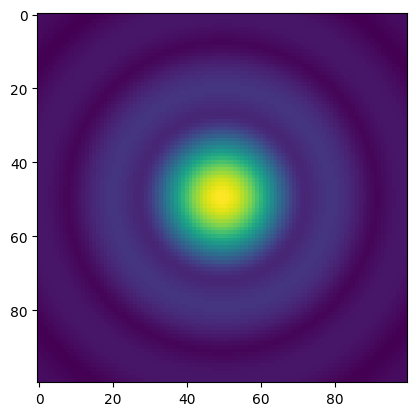
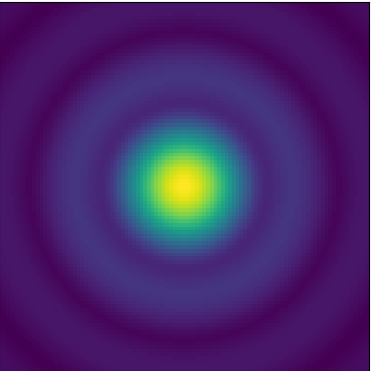
Before clean- Includes comments

diff --git a/Full_sim/03_30_26.py b/Full_sim/03_30_26.py
@@ -2,26 +2,26 @@ import matplotlib.pyplot as plt
 import numpy as np
 import math
 
-N = 400 #ideally(400)
+N = 100 #ideally(400)
 radius = .25 #500 mm across!! (.25)
 dx = (2 * radius)/N
 edge_taper = 0.01 #gaussian
 theta = math.pi / 4 #45 degrees (but in rad)
 lamda = 3e-3 #3mm
-frame_size = [50,50]
+#frame_size = [50,50]
 
 #tilted mirror matrices
 # phase_gradient = np.zeros((3,1))
 # degree_tilt = np.array([[1,0,0], [0, math.cos(theta), math.sin(theta)], [0, -math.sin(theta), math.cos(theta)]])
 # coord = np.array([[x], [y], [z]])
-# #QUESTION
-mirror_coord = np.array([1.5,1.5,4]) #m (6,4,4)
 
+mirror_coord = np.array([2.7,1.8,4]) #m (6,4,4)
+z1 = 4
 # phase_gradient = (degree_tilt * coord) + mirror_coord
 phase_gradient = 1
 
 def ap_grid(N, dx,radius, edge_taper, phase_gradient):
-    coords = (np.arange(N) - N/2) * dx
+    coords = (np.arange(N) - (N/2)) * dx
     x, y = np.meshgrid(coords, coords)
     z = 0
 
@@ -54,13 +54,12 @@ def mirror(N, dx, theta, mirror_coord):
 
 
 
-
-
 def fresnel(aperture,x,y, mirror_data, lamda):
+    #angular spatial frequency (optical wave number)
     k = 2 * np.pi / lamda
     dist = float(mirror_data[2])
     
-    #from mirror
+    #from mirror (slicing for scaling)
     t_x = mirror_data[0][0, :]
     t_y = mirror_data[1][:, 0] 
     
@@ -76,21 +75,70 @@ def fresnel(aperture,x,y, mirror_data, lamda):
 
 
 
+def fraunhofer(a_grid, m_grid, lamda, dx, z1, near_grid):
+    """
+    aperture: complex 2D array
+    mirror: complex or real 2D array (same shape)
+    wavelength: meters
+    dx: pixel spacing (meters)
+    z1: propagation distance aperture -> mirror (meters)
+    """
+
+    k = 2 * np.pi / lamda
+    
+    # FX, FY = np.meshgrid(fx, fy, indexing='ij')
+
+    # # Fresnel transfer function
+    # H = np.exp(-1j * np.pi * lamda * z1 * (FX**2 + FY**2))
+
+    # # Propagate to mirror
+    # U1 = np.fft.ifft2(np.fft.fft2(aperture) * H)
+
+    # # Apply mirror
+    # U2 = U1 * m_grid
+
+    # Fraunhofer (far field)
+    U_far = np.fft.fft2(near_grid)
+#  # # Fresnel transfer function
+#     H = np.exp(-1j * np.pi * lamda * z1 * (FX**2 + FY**2))
+    center = np.fft.fftshift(U_far)
+
+    I_far = np.abs(center)**2
+
+    #freq coord
+    #rows and cols
+    N, M = a_grid.shape
+
+    # Frequency coordinates for fft 
+    fx = np.fft.fftfreq(N, d=dx)
+    fy = np.fft.fftfreq(M, d=dx)
+    #shifted
+    fx = np.fft.fftshift(fx)
+    fy = np.fft.fftshift(fy)
+
+    #Real units
+    x_far = fx * lamda * z1
+    y_far = fy * lamda * z1
+    
+    #meshy
+    
+    # final = np.fft.ifft2(U_far * H)
 
 
+    return I_far, x_far, y_far
 
-#def fraunhofer(a_grid, m_grid, lamda):
 
 
 aperture, x, y, z = ap_grid(N, dx,radius, edge_taper, phase_gradient)
 
-pad = 0
-aperture_padded = np.pad(aperture, ((pad, pad), (pad, pad)), mode='constant')
+#PADDING?
+# pad = 0
+# aperture_padded = np.pad(aperture, ((pad, pad), (pad, pad)), mode='constant')
+# N_new = aperture_padded.shape[0]
+# coords = np.linspace(-radius, radius, N)
+# x_padded, y_padded = np.meshgrid(coords, coords)
 
-N_new = aperture_padded.shape[0]
-coords = np.linspace(-radius, radius, N)
-x_padded, y_padded = np.meshgrid(coords, coords)
-
+#PRINTING THE APERTURE
 # plt.imshow(np.abs(aperture), extent = [-radius, radius, -radius, radius])
 # plt.xlabel("Diameter of Aperture (mm)")
 # plt.title("Aperture")
@@ -98,15 +146,36 @@ x_padded, y_padded = np.meshgrid(coords, coords)
 
 mirror_data, length, width, distance = mirror(N, dx, theta, mirror_coord)
 
+near = fresnel(aperture, x, y, mirror_data, lamda)
 
-near = fresnel(aperture_padded, x_padded, y_padded, mirror_data, lamda)
-plt.xlabel("Length (m)")
-plt.ylabel("Width (m)")
-plt.title(f"Mirror Projection(Fresnel) Distance {distance} (m)")
-plt.imshow(np.log10(np.abs(near)**2 + 1e-15), 
-           extent=[length.min(), length.max(), width.min(), width.max()], 
-           aspect='equal', 
-           origin='lower')
+#PRINT NEAR FIELD MIRROR PROJECTION
+# plt.xlabel("Length (m)")
+# plt.ylabel("Width (m)")
+# plt.title(f"Mirror Projection(Fresnel) Distance {distance} (m)")
+# plt.imshow(np.log10(np.abs(near)**2 + 1e-15), 
+#            extent=[length.min(), length.max(), width.min(), width.max()], 
+#            aspect='equal', 
+#            origin='lower')
+# plt.show()
+
+I_far, x_far, y_far = fraunhofer(aperture, mirror_data, lamda, dx, z1,near)
 
 
+# image boundaries!!!!!!!!!!!!!!!!!!!!!!!!!!!!!!!!!!!!!!
+x_min, x_max = x_far.min(), x_far.max()
+y_min, y_max = y_far.min(), y_far.max()
+
+#inferno?
+plt.imshow(I_far, cmap='inferno', extent=[x_min, x_max, y_min, y_max], origin='lower')
+
+# Zoom
+plt.xlim(x_min / 10, x_max / 10)
+plt.ylim(y_min / 10, y_max / 10)
+# plt.imshow(I_far, cmap='inferno')
+plt.colorbar(label='Intensity')
+plt.title('Far-field diffraction pattern')
 plt.show()
+
+
+print(I_far)
+

diff --git a/Ohio_cosmic_presentation/plot.py b/Ohio_cosmic_presentation/plot.py
@@ -1,0 +1,60 @@
+import matplotlib.pyplot as plt
+import numpy as np
+
+
+#creating the aperture space
+N = 100
+aperture = np.zeros(shape=(N,N),dtype=complex)
+
+x_pos = np.linspace(-250, 250, N) # 500 millimeter aperture
+y_pos = np.linspace(-250, 250, N)
+
+x_grid,y_grid = np.meshgrid(x_pos,y_pos)
+
+#Computes distance from origin to each grid point
+r = np.sqrt(x_grid**2 + y_grid**2)
+
+#Creates circular aperture
+aperture[r < 250] = 1.0
+
+# """for i in range(len(x_pos)):
+#     for j in range(len(y_pos)):
+#         r = np.sqrt(x_pos[i]**2 + y_pos[j]**2)
+#         if r < 250:
+#             aperture[i,j] = 1.0"""
+
+
+# plt.imshow(np.abs(aperture))
+
+
+#taking the aperture and seeing where thats projected onto the near field
+near_field = np.zeros(shape=(100,100), dtype=complex)
+x2 = np.linspace(-1000,1000,100)
+y2 = np.linspace(-1000,1000,100)
+z = 10000
+
+x_grid2,y_grid2 = np.meshgrid(x2,y2)
+
+for i in range(len(x2)):
+    for j in range(len(y2)):
+        #finding the distance between the whole aperture and points in a plane
+        d = np.sqrt((x_grid - x2[i])**2 + (y_grid - y2[j])**2 + z**2) #2D array of distances 
+        near_field[i,j] = np.sum(aperture * np.exp(complex(0,1) * d/3)) #(3) scaling factor for the phase
+
+plt.imshow(np.abs(near_field))
+
+# # --- ADD THESE LINES TO THE BOTTOM ---
+
+# --- REPLACE YOUR LAST 3 LINES WITH THESE ---
+
+# 1. Normalize the data so the peak is 1.0 (Fixes the "thousands" problem)
+final_map = np.abs(near_field)
+final_map = final_map / np.max(final_map)
+
+# 2. Plot without axes and with a clean colorbar
+plt.imshow(final_map)
+plt.title('Simulated Fresnel Beam Map')
+plt.axis('off') # Keeps it clean like the BICEP maps
+plt.colorbar()
+
+plt.show()
